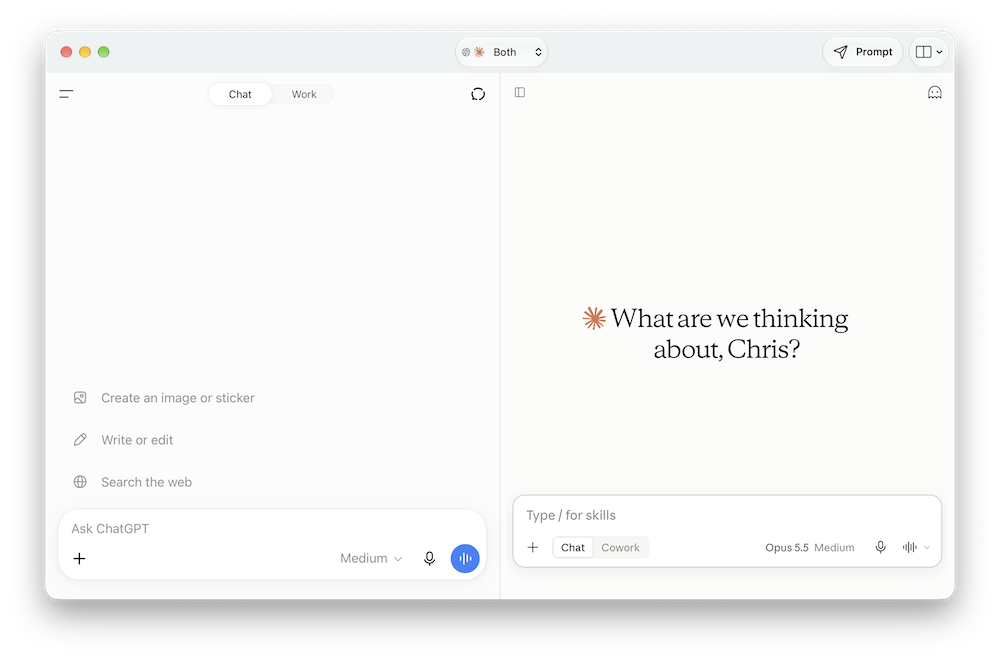
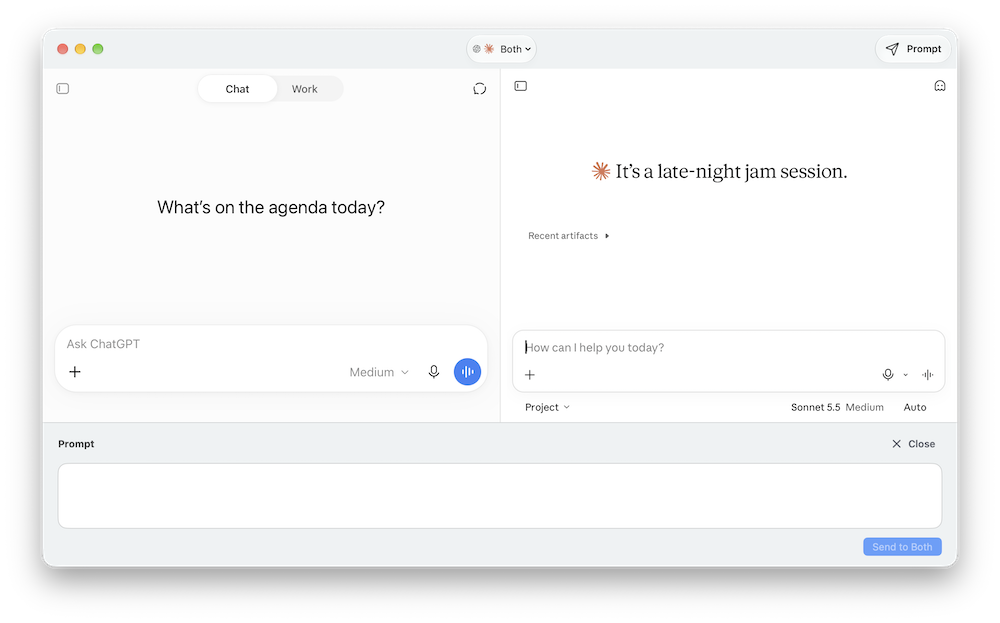
Update the site for 2.2 shortcuts and new screenshot
List Command–N and Command–1–3 in the site's shortcuts and feature copy, and replace the hero image with the updated split-view screenshot.

diff --git a/site/index.html b/site/index.html
@@ -38,7 +38,7 @@
       </div>
       <p class="requirements">Apple Silicon · macOS 27 or later</p>
       <div class="workspace-preview">
-        <img src="assets/split-view.png" alt="Duet showing ChatGPT and Claude side by side" width="1000" height="659" fetchpriority="high">
+        <img src="assets/split-view.png" alt="Duet showing ChatGPT and Claude side by side" width="1000" height="623" fetchpriority="high">
       </div>
     </section>
 
@@ -64,7 +64,7 @@
         </article>
         <article class="feature">
           <h3>Native to macOS</h3>
-          <p>Standard file pickers and save dialogs, plus macOS permission prompts for microphone, camera, and location.</p>
+          <p>Keyboard shortcuts to switch workspaces and start new conversations, standard file pickers and save dialogs, and macOS permission prompts for microphone, camera, and location.</p>
         </article>
         <article class="feature">
           <h3>Privacy-minded by design</h3>
@@ -87,6 +87,14 @@
             <div class="shortcut">
               <span>Open the prompt drawer</span>
               <span class="keys" role="img" aria-label="Command, Shift, P"><kbd>⌘</kbd><kbd>⇧</kbd><kbd>P</kbd></span>
+            </div>
+            <div class="shortcut">
+              <span>Start a new conversation</span>
+              <span class="keys" role="img" aria-label="Command, N"><kbd>⌘</kbd><kbd>N</kbd></span>
+            </div>
+            <div class="shortcut">
+              <span>Show ChatGPT, Claude, or Both</span>
+              <span class="keys" role="img" aria-label="Command, 1, 2, or 3"><kbd>⌘</kbd><kbd>1–3</kbd></span>
             </div>
           </div>
         </div>
